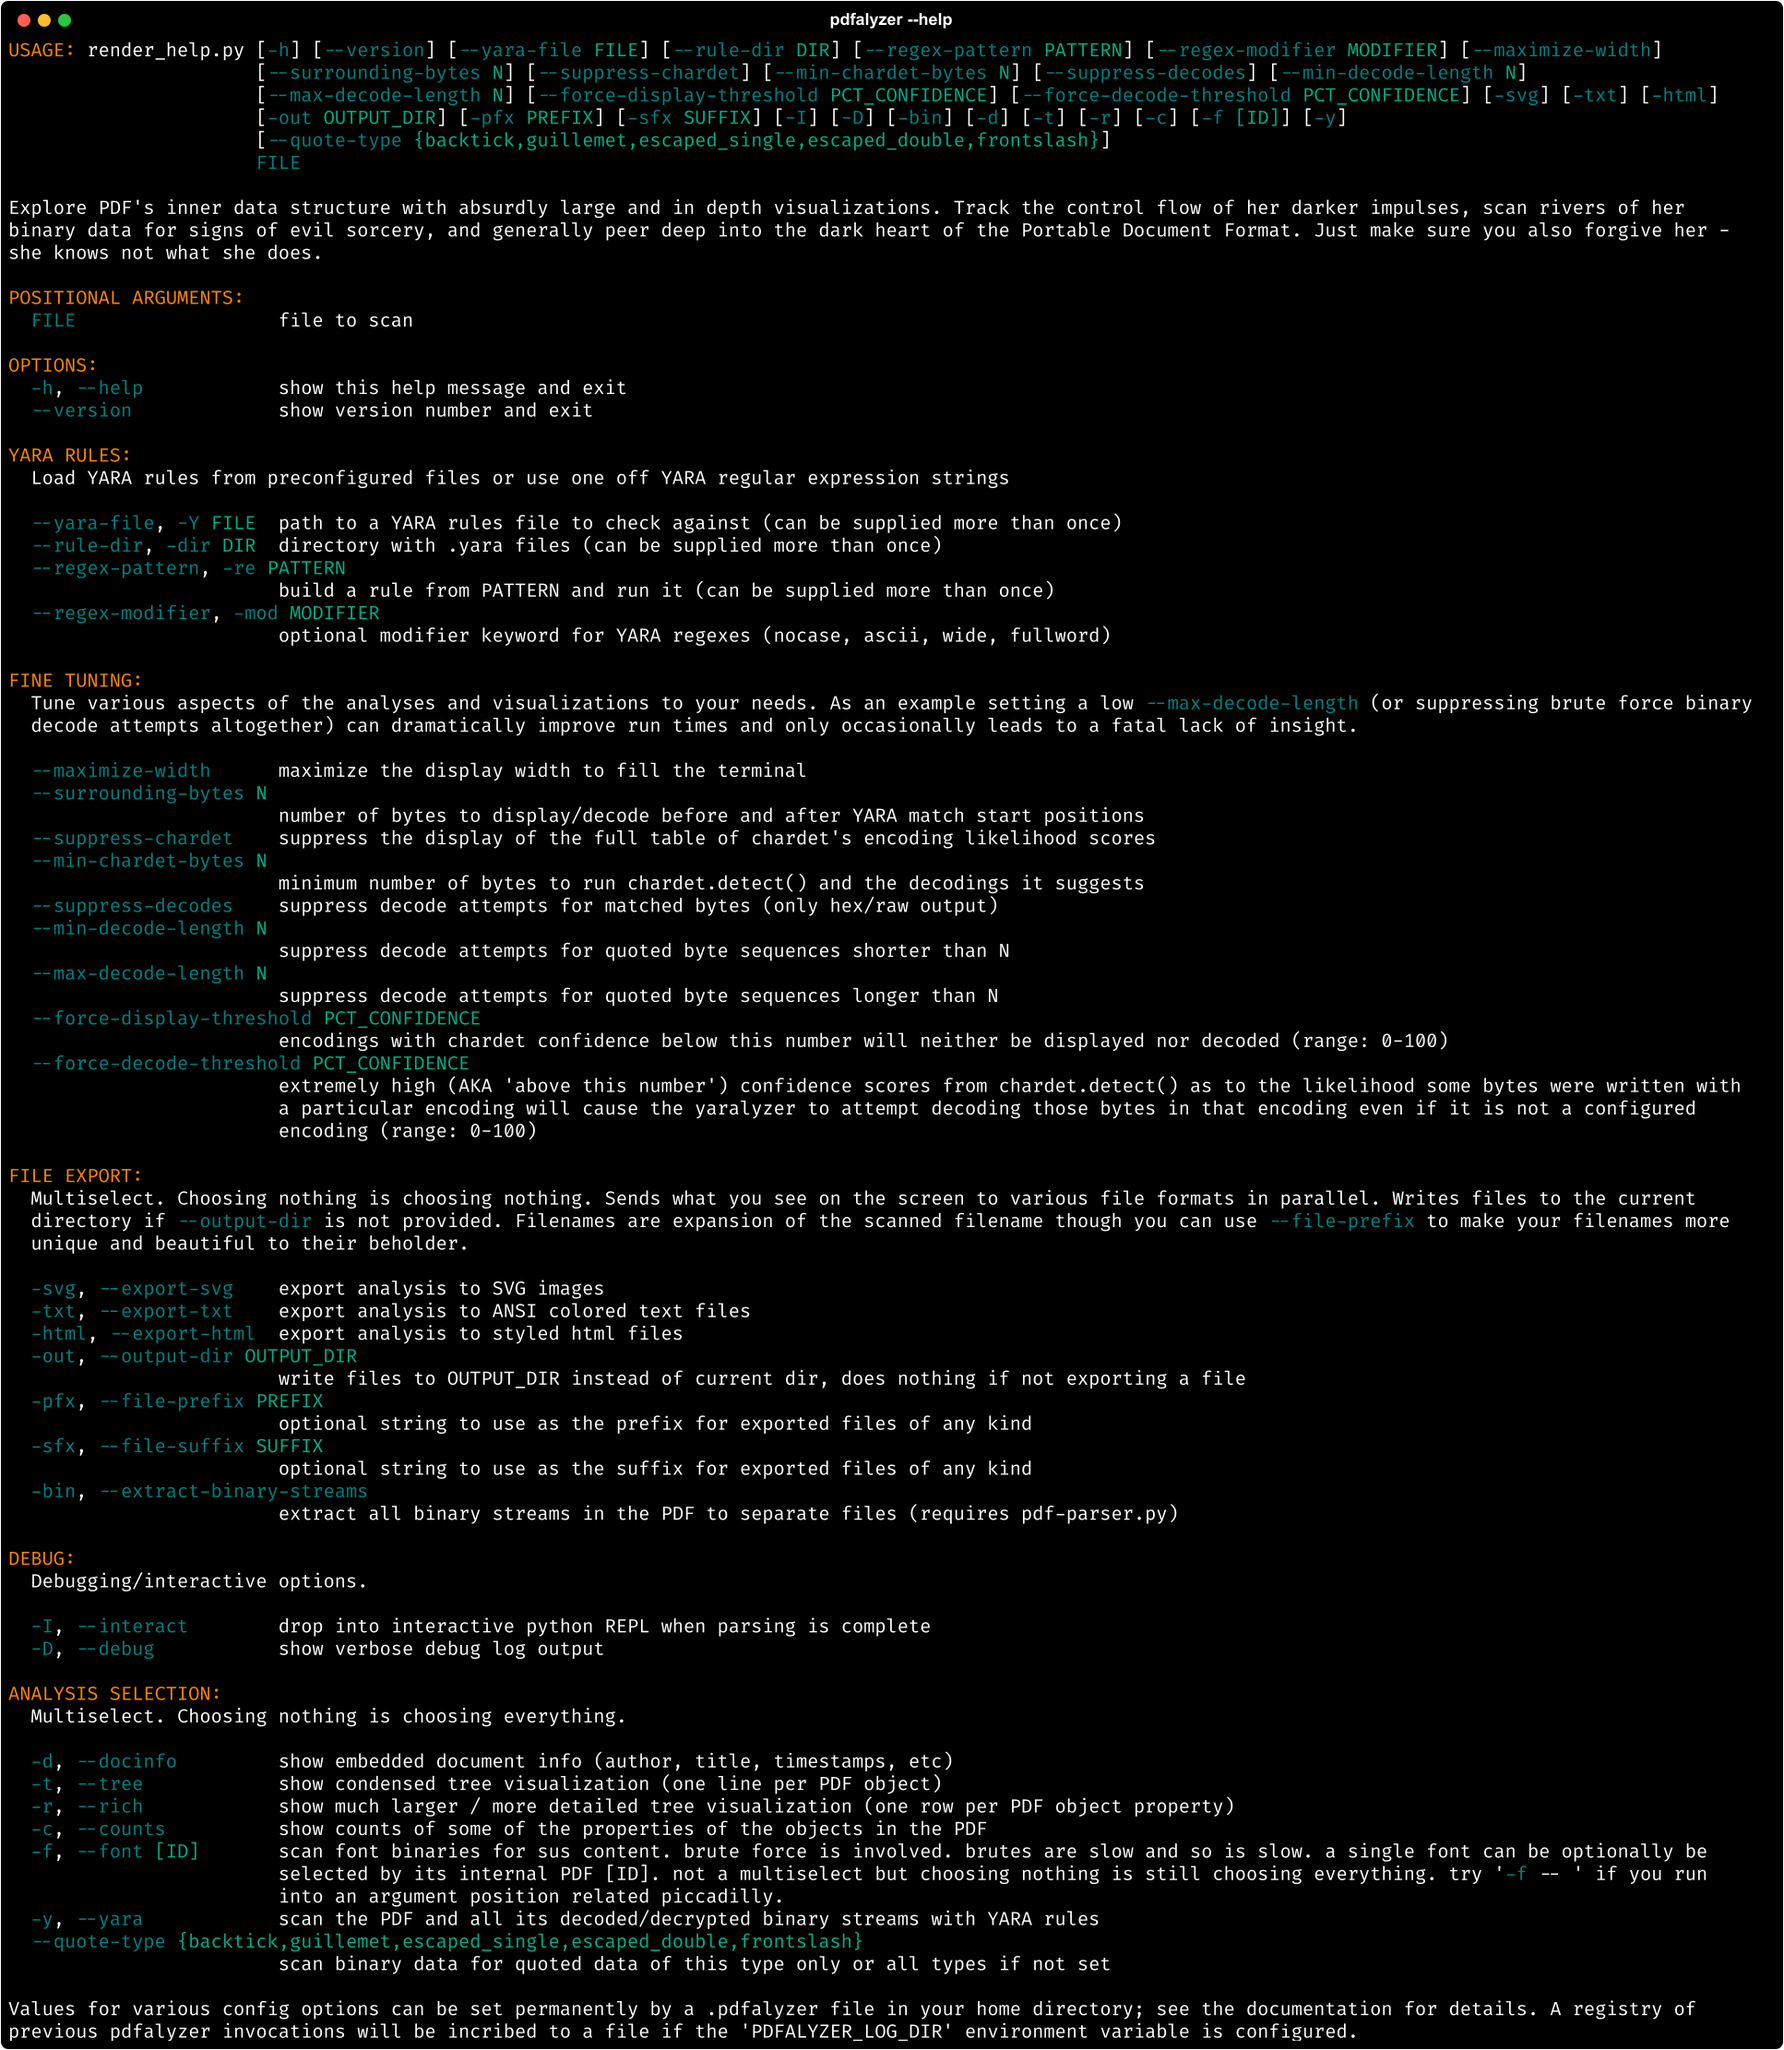
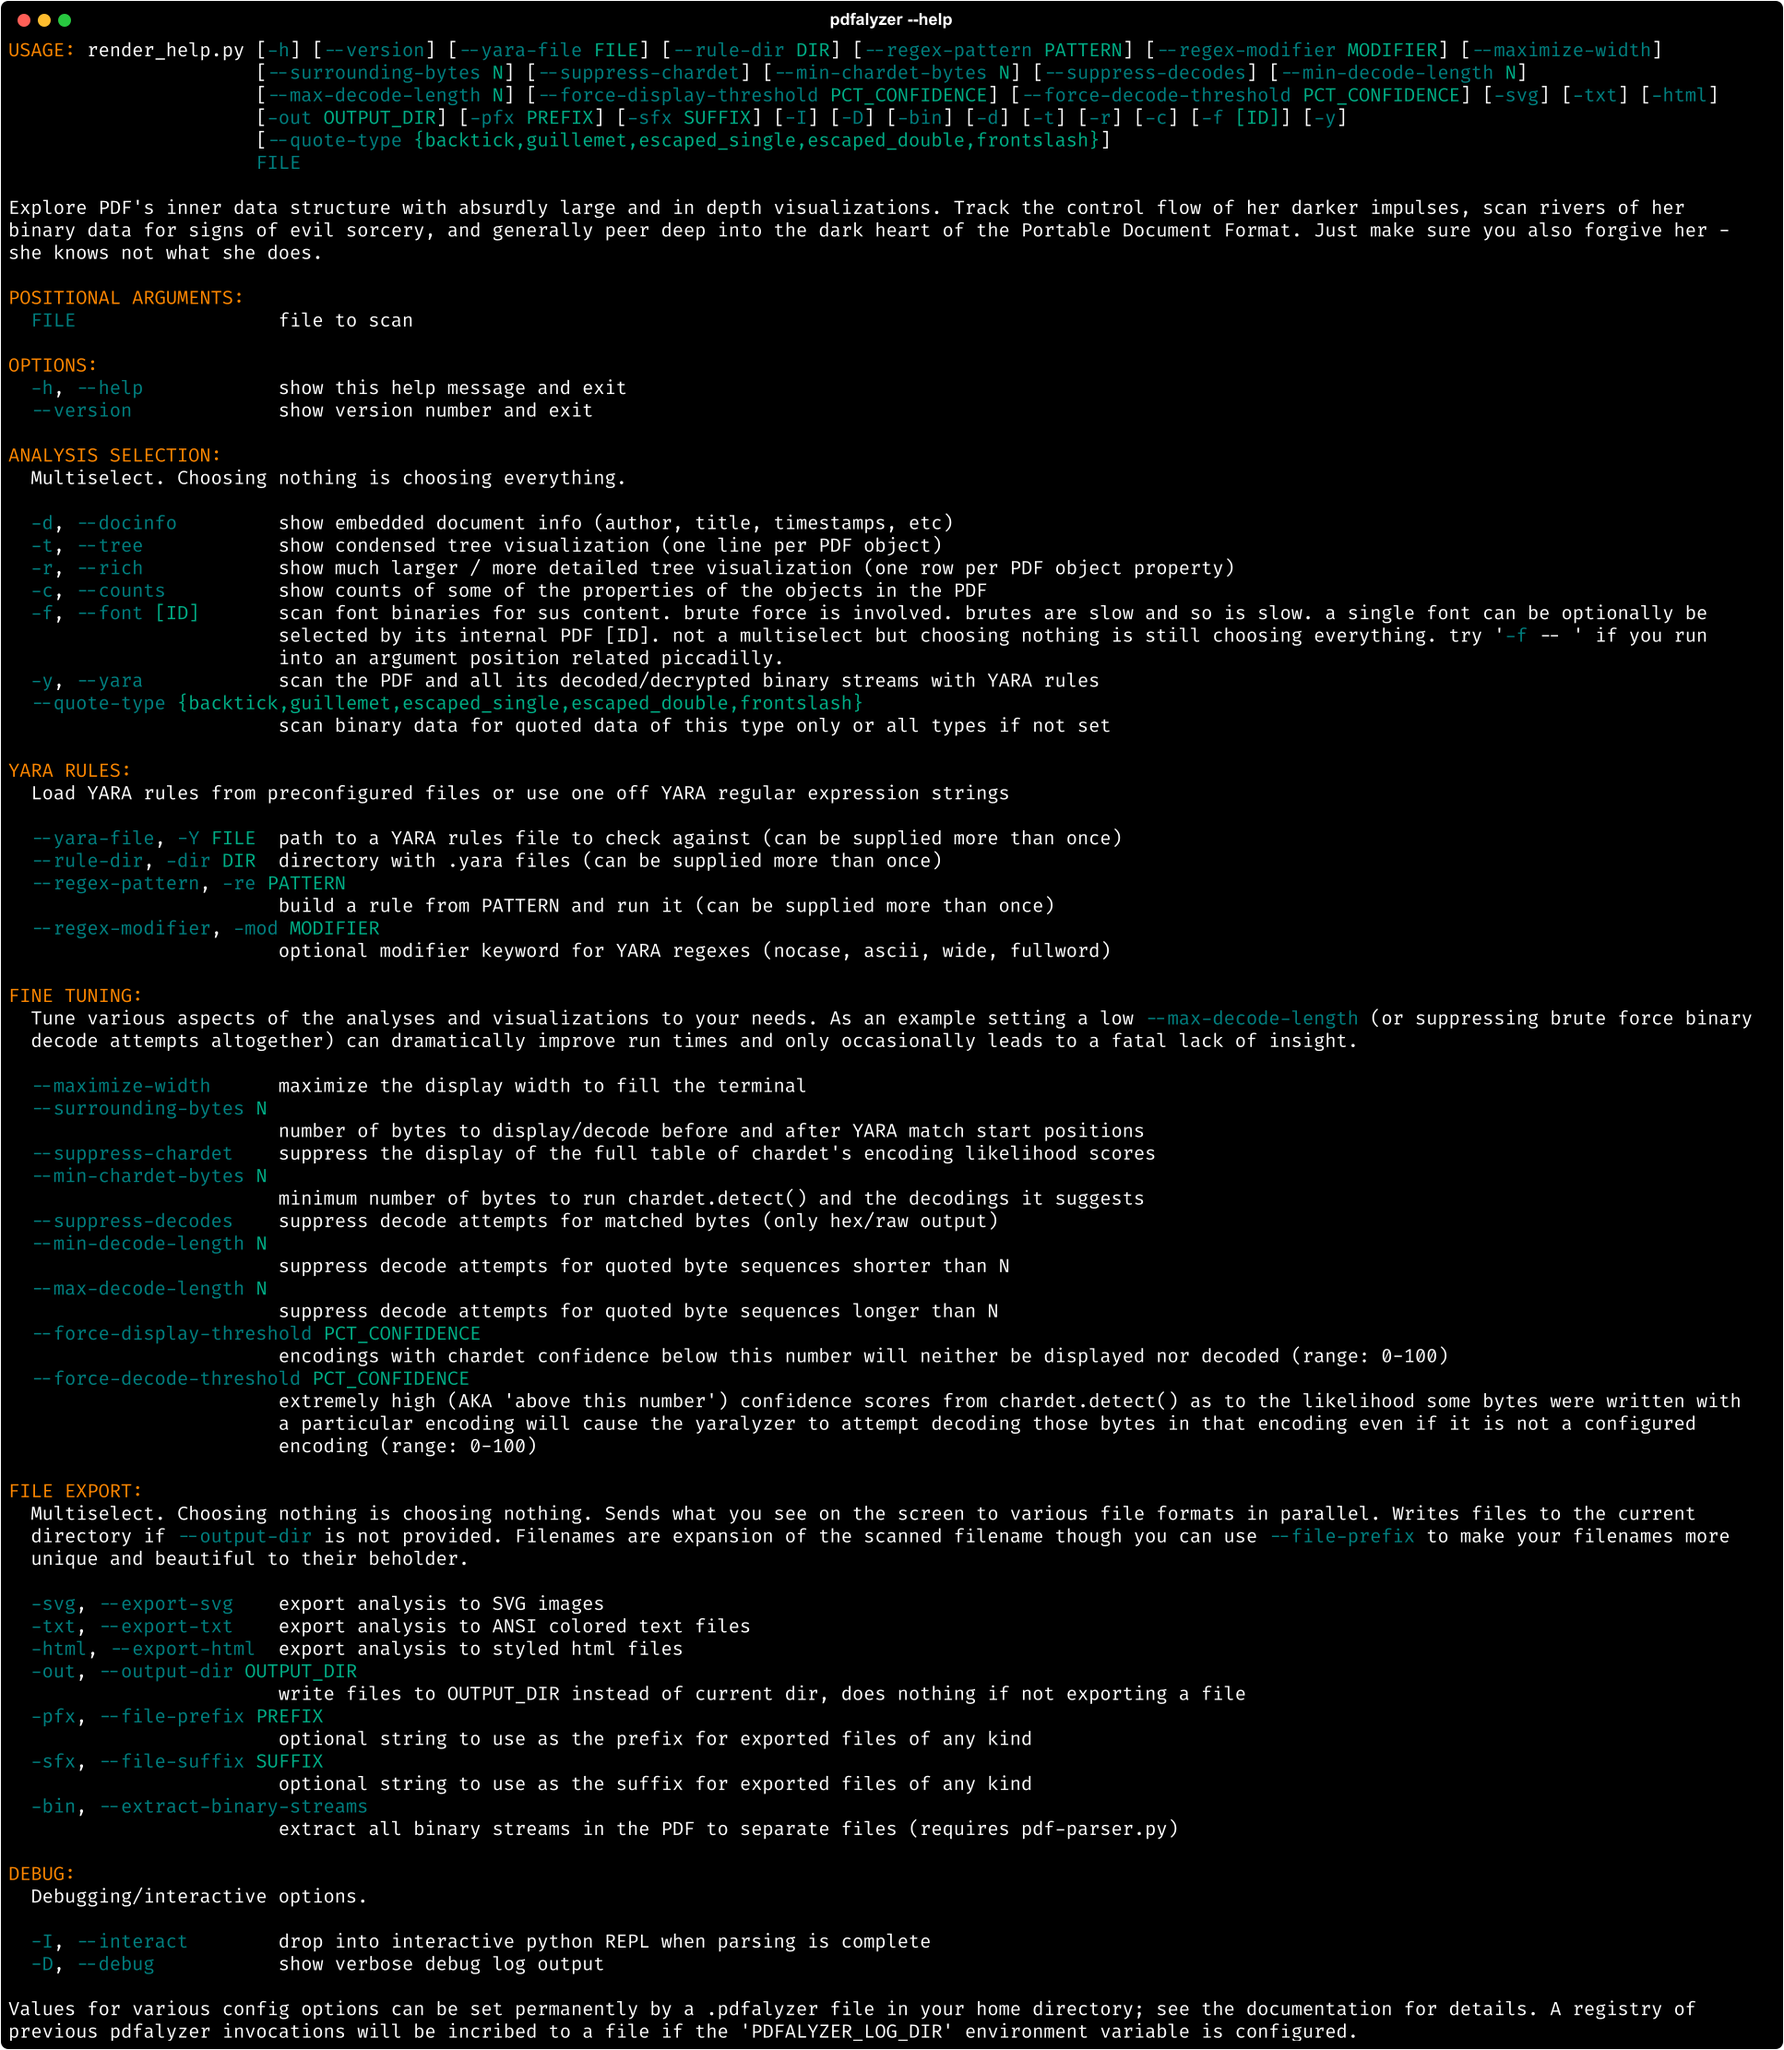
Reorder the help

diff --git a/pdfalyzer/util/argument_parser.py b/pdfalyzer/util/argument_parser.py
@@ -77,7 +77,7 @@ select.add_argument('-c', '--counts', action='store_true',
 select.add_argument('-f', '--font',
                     help="scan font binaries for sus content. brute force is involved. brutes are slow and so " + \
                          "is slow. a single font can be optionally be selected by its internal PDF [ID]. " + \
-                         "not a multiselect but choosing nothing is still choosing everything. "
+                         "not a multiselect but choosing nothing is still choosing everything. " + \
                          "try '-f -- [the rest]' if you run into an argument position related piccadilly.",
                     nargs='?',
                     const=ALL_FONTS_OPTION,
@@ -90,6 +90,9 @@ select.add_argument('-y', '--yara', action='store_true',
 select.add_argument('--quote-type',
                     help='scan binary data for quoted data of this type only or all types if not set',
                     choices=list(QUOTE_REGEXES.keys()))
+
+# Make sure the selection section is at the top
+parser._action_groups = parser._action_groups[:2] + [parser._action_groups[-1]] + parser._action_groups[2:-1]
 
 
 # The Parsening Begins

diff --git a/pdfalyzer/__init__.py b/pdfalyzer/__init__.py
@@ -15,7 +15,6 @@ from yaralyzer.config import YaralyzerConfig
 from yaralyzer.helpers.rich_text_helper import console
 from yaralyzer.util.logging import log, log_and_print
 
-from pdfalyzer.config import PdfalyzerConfig
 from pdfalyzer.helpers.rich_text_helper import invoke_rich_export
 from pdfalyzer.pdfalyzer import Pdfalyzer
 from pdfalyzer.util.pdf_parser_manager import PdfParserManager
